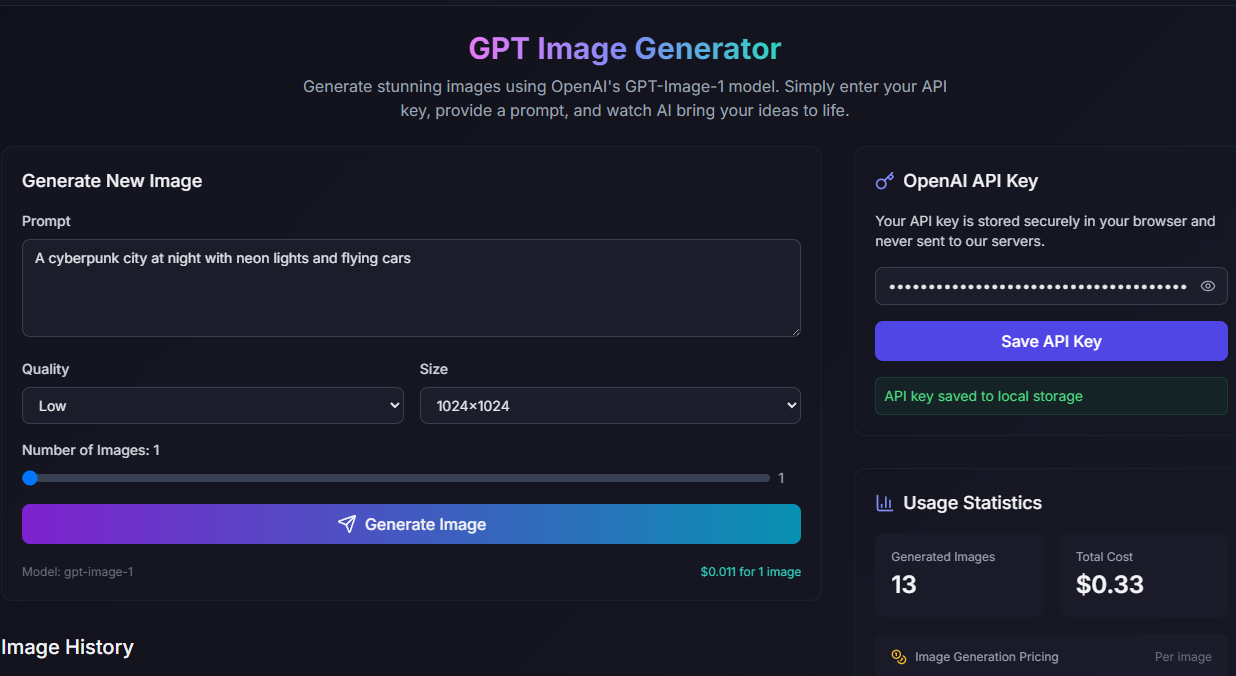
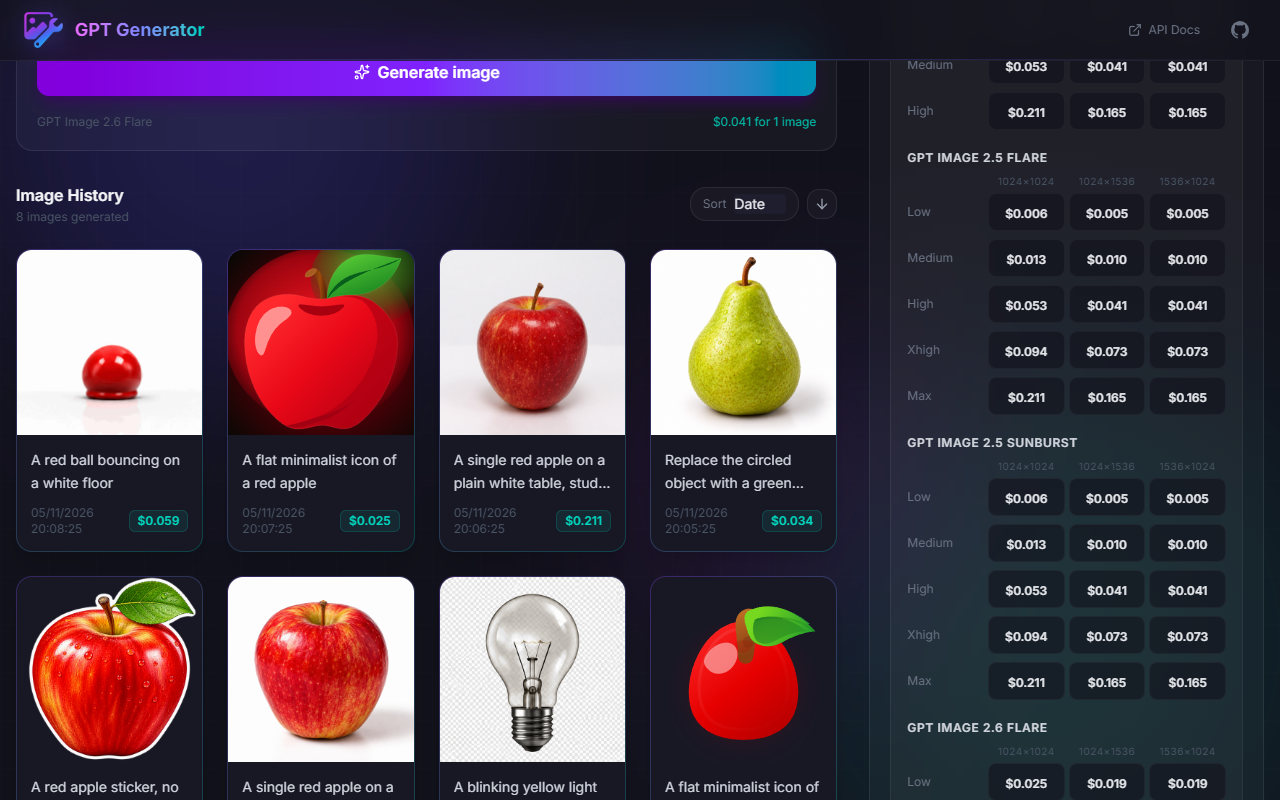
feat(app): Make the app an installable PWA with an offline app shell, improve SEO and polish the UI copy.

diff --git a/src/lib/components/ImageGenerator.svelte b/src/lib/components/ImageGenerator.svelte
@@ -1,7 +1,7 @@
 <script lang="ts">
 	import { onMount } from 'svelte';
 	import { fly, fade } from 'svelte/transition';
-	import { Upload, X, ChevronDown, ChevronRight, LoaderCircle, Sparkles, ImagePlus, ClipboardPaste, Brush } from '@lucide/svelte';
+	import { Upload, X, ChevronDown, ChevronRight, LoaderCircle, Sparkles, ImagePlus, Brush } from '@lucide/svelte';
 	import { apiKey } from '#lib/stores/apiKey.svelte.ts';
 	import { gallery } from '#lib/stores/gallery.svelte.ts';
 	import { generateImage, editImage, type ImageResult } from '#lib/services/openai.ts';
@@ -145,7 +145,7 @@
 				: opts.prompt.length > GPT_IMAGE_MODEL_PROMPT_MAX_CHARS
 					? `Prompt exceeds the API limit (${GPT_IMAGE_MODEL_PROMPT_MAX_CHARS.toLocaleString('en-US')} characters for GPT Image models). Shorten the text and try again.`
 					: opts.selectedBackground === 'transparent' && format === 'jpeg'
-						? 'Transparent background is not supported for JPEG output format. Please select PNG or WebP.'
+						? 'JPEG does not support a transparent background. Choose PNG or WebP.'
 						: format === 'gif' && !VALID.frameDurationMs(opts.frameDurationMs)
 							? `Frame duration must be a whole number between ${GIF_LIMITS.minFrameDurationMs} and ${GIF_LIMITS.maxFrameDurationMs} ms.`
 							: null
@@ -191,7 +191,7 @@
 			return;
 		}
 		if (file.size > IMAGE_UPLOAD_LIMITS.maskMaxSize) {
-			error = `Mask file "${file.name}" is too large. Maximum size is ${IMAGE_UPLOAD_LIMITS.maskMaxSize / (1024 * 1024)}MB.`;
+			error = `Mask file "${file.name}" is too large. Maximum size is ${IMAGE_UPLOAD_LIMITS.maskMaxSize / (1024 * 1024)} MB.`;
 			return;
 		}
 
@@ -269,7 +269,7 @@
 		<div class="flex items-center gap-2">
 			<Sparkles class="h-4 w-4 text-brand-400" />
 			<h2 class="text-sm font-semibold text-gray-100 tracking-wide uppercase">
-				{inputImages.length > 0 ? 'Generate with references' : 'Create Image'}
+				{inputImages.length > 0 ? 'Generate with references' : 'Create image'}
 			</h2>
 		</div>
 		{#if inputImages.length > 0}
@@ -278,14 +278,6 @@
 				class="text-xs px-2 py-0.5 rounded-full bg-brand-900/50 text-brand-300 border border-brand-700/40"
 			>
 				{inputImages.length} reference{inputImages.length > 1 ? 's' : ''} attached
-			</span>
-		{:else}
-			<span
-				in:fade={{ duration: 200 }}
-				class="text-xs text-gray-600 flex items-center gap-1"
-			>
-				<ClipboardPaste class="h-3 w-3" />
-				Ctrl+V to attach image
 			</span>
 		{/if}
 	</div>
@@ -298,7 +290,7 @@
 					bind:value={opts.prompt}
 					rows="4"
 					placeholder={inputImages.length > 0
-						? 'Describe what to generate using these references - style, subject, composition…'
+						? 'Describe what to generate from these references: style, subject, composition…'
 						: 'Describe the image you want to create…'}
 					class="input resize-none leading-relaxed pb-8"
 					disabled={isGenerating}
@@ -328,14 +320,9 @@
 			<ImageUploadZone bind:files={inputImages} disabled={isGenerating} onerror={(message) => (error = message)}
 				onsvg={(text) => (opts.prompt = opts.prompt.trim() ? `${opts.prompt}\n\n${text}` : text)}
 			/>
-			{#if inputImages.length === 0}
-				<p class="text-xs text-gray-700 mt-1.5">
-					Drop, paste (Ctrl+V) or browse - any image up to 50 MB, SVG files are added to the prompt as text
-				</p>
-			{/if}
 		</div>
 
-		<div class="grid grid-cols-3 gap-3">
+		<div class="grid grid-cols-1 sm:grid-cols-3 gap-3">
 			<div>
 				<label for="model" class="field-label block mb-1.5">Model</label>
 				<select id="model" bind:value={opts.selectedModel} class="input" disabled={isGenerating}>
@@ -398,7 +385,7 @@
 					<div class="grid grid-cols-2 gap-4">
 						<div>
 							<label for="outputFormat" class="field-label block mb-1.5">
-								Output Format
+								Output format
 							</label>
 							<select id="outputFormat" bind:value={() => format, (value) => (opts.outputFormat = value)} class="input" disabled={isGenerating}>
 								{#each Object.entries(OUTPUT_FORMAT_OPTIONS) as [key, option] (key)}
@@ -535,7 +522,7 @@
 					{#if mode === 'edit'}
 						<div>
 							<label class="field-label block mb-1.5" for="mask-upload">
-								Mask (Optional)
+								Mask (optional)
 							</label>
 							<div class="flex items-center gap-3">
 								<label class="cursor-pointer">
@@ -572,7 +559,7 @@
 
 					{#if markupAllowed}
 						<div>
-							<span class="field-label block mb-1.5">Markup (Optional)</span>
+							<span class="field-label block mb-1.5">Markup (optional)</span>
 							<button
 								type="button"
 								class="flex items-center gap-2 px-3 py-1.5 bg-gray-800 hover:bg-gray-700 disabled:opacity-40 disabled:cursor-not-allowed rounded-lg text-sm transition-colors cursor-pointer"
@@ -641,7 +628,7 @@
 			{#if price !== null}
 				<span class="text-secondary-500">${(price * effectiveCount).toFixed(3)} for {effectiveCount} {effectiveCount > 1 ? 'images' : 'image'}</span>
 			{:else}
-				<span class="text-gray-500">Price estimate unavailable, the real cost is recorded after generation</span>
+				<span class="text-gray-500">Price estimate unavailable. The real cost is recorded after generation.</span>
 			{/if}
 		</div>
 	</form>

diff --git a/src/app.html b/src/app.html
@@ -6,21 +6,49 @@
 		<link rel="icon" type="image/png" sizes="32x32" href="/favicon.png" />
 		<link rel="icon" type="image/avif" sizes="32x32" href="/favicon.avif" />
 		<link rel="apple-touch-icon" href="/apple-touch-icon.png" />
+		<link rel="manifest" href="/manifest.webmanifest" />
 		<meta name="viewport" content="width=device-width, initial-scale=1.0" />
+		<meta name="theme-color" content="#11111b" />
+		<meta name="apple-mobile-web-app-title" content="GPT Images" />
 		<title>GPT Image Generator</title>
 
-		<meta name="description" content="Generate and edit images in your browser with OpenAI's GPT Image 2, 2.5 and 2.6 models, including animated GIF and SVG output." />
+		<meta name="description" content="Generate and edit images, animated GIFs and SVGs in your browser with OpenAI's GPT Image 2, 2.5 and 2.6 models, using your own API key." />
 		<meta name="author" content="Ayfri" />
 
 		<meta property="og:title" content="GPT Image Generator" />
-		<meta property="og:description" content="Generate and edit images in your browser with OpenAI's GPT Image 2, 2.5 and 2.6 models, including animated GIF and SVG output." />
+		<meta property="og:description" content="Generate and edit images, animated GIFs and SVGs in your browser with OpenAI's GPT Image 2, 2.5 and 2.6 models, using your own API key." />
 		<meta property="og:type" content="website" />
 		<meta property="og:url" content="https://gpt-images.ayfri.com" />
 		<meta property="og:site_name" content="GPT Image Generator" />
+		<meta property="og:locale" content="en_US" />
+		<meta property="og:image" content="https://gpt-images.ayfri.com/og-image.png" />
+		<meta property="og:image:width" content="1200" />
+		<meta property="og:image:height" content="630" />
+		<meta property="og:image:type" content="image/png" />
+		<meta property="og:image:alt" content="GPT Image Generator showing a gallery of AI-generated images" />
 
-		<meta name="twitter:card" content="summary" />
+		<meta name="twitter:card" content="summary_large_image" />
+		<meta name="twitter:image" content="https://gpt-images.ayfri.com/og-image.png" />
+		<meta name="twitter:image:alt" content="GPT Image Generator showing a gallery of AI-generated images" />
 
 		<link rel="canonical" href="https://gpt-images.ayfri.com" />
+
+		<script type="application/ld+json">
+			{
+				"@context": "https://schema.org",
+				"@type": "WebApplication",
+				"name": "GPT Image Generator",
+				"url": "https://gpt-images.ayfri.com",
+				"description": "Generate and edit images, animated GIFs and SVGs in your browser with OpenAI's GPT Image 2, 2.5 and 2.6 models, using your own API key.",
+				"applicationCategory": "MultimediaApplication",
+				"operatingSystem": "Any",
+				"browserRequirements": "Requires a modern browser with JavaScript and an OpenAI API key",
+				"isAccessibleForFree": true,
+				"image": "https://gpt-images.ayfri.com/og-image.png",
+				"offers": { "@type": "Offer", "price": "0", "priceCurrency": "USD" },
+				"author": { "@type": "Person", "name": "Ayfri", "url": "https://github.com/Ayfri" }
+			}
+		</script>
 
 		<script async src="https://www.googletagmanager.com/gtag/js?id=G-YKYKTBFCYW"></script>
 		<script>

diff --git a/src/service-worker/index.ts b/src/service-worker/index.ts
@@ -1,0 +1,32 @@
+import { version } from '$app/env';
+import { assets, immutable, prerendered } from '$app/manifest';
+import { self } from '$app/service-worker';
+
+const CACHE = `app-shell-${version}`;
+
+/** The manifest paths have no leading slash and the prerendered page is an empty path. The social preview and install dialog images stay out of the shell: only crawlers and installers fetch them. */
+const shell = new Set(
+	[...immutable, ...assets, ...prerendered].map(({ path }) => `/${path}`).filter((path) => !/^\/(og-image|screenshot)/.test(path))
+);
+
+self.addEventListener('install', (event) => {
+	event.waitUntil(caches.open(CACHE).then((cache) => cache.addAll(shell)));
+});
+
+self.addEventListener('activate', (event) => {
+	event.waitUntil(caches.keys().then((keys) => Promise.all(keys.filter((key) => key !== CACHE).map((key) => caches.delete(key)))));
+});
+
+self.addEventListener('fetch', (event) => {
+	const { request } = event;
+	const { origin, pathname } = new URL(request.url);
+
+	/** Cross-origin requests (the OpenAI API included) and non-GET requests go straight to the network. */
+	if (request.method !== 'GET' || origin !== self.location.origin) return;
+
+	if (request.mode === 'navigate') {
+		event.respondWith(fetch(request).catch(async () => (await caches.match('/')) ?? Response.error()));
+	} else if (shell.has(pathname)) {
+		event.respondWith(caches.match(request).then((cached) => cached ?? fetch(request)));
+	}
+});

diff --git a/src/lib/components/ImageLightbox.svelte b/src/lib/components/ImageLightbox.svelte
@@ -77,13 +77,13 @@
 			<span>Quality: {image.quality ?? 'N/A'}</span>
 			<span>Size: {image.size ?? 'N/A'}</span>
 			{#if image.input_fidelity && image.input_fidelity !== 'low'}
-				<span>Input Fidelity: {image.input_fidelity}</span>
+				<span>Input fidelity: {image.input_fidelity}</span>
 			{/if}
 			{#if image.output_compression && image.output_compression !== 100}
-				<span>Output Compression: {image.output_compression}</span>
+				<span>Output compression: {image.output_compression}%</span>
 			{/if}
 			{#if image.output_format && image.output_format !== 'png'}
-				<span>Output Format: {image.output_format}</span>
+				<span>Output format: {image.output_format}</span>
 			{/if}
 			{#if image.background && image.background !== 'auto'}
 				<span>Background: {image.background}</span>
@@ -95,7 +95,7 @@
 				<span>Complexity: {image.complexity}</span>
 			{/if}
 			{#if image.frame_count && image.frame_duration_ms}
-				<span>Frames: {image.frame_count} x {image.frame_duration_ms} ms</span>
+				<span>Frames: {image.frame_count} × {image.frame_duration_ms} ms</span>
 			{/if}
 			{#if image.svg_usage}
 				<span>SVG author: {image.svg_usage.model}, {image.svg_usage.input_tokens} in / {image.svg_usage.output_tokens} out tokens (not in cost)</span>

diff --git a/src/lib/types/image.ts b/src/lib/types/image.ts
@@ -43,7 +43,7 @@ export const QUALITY_OPTIONS = {
 	low: { label: 'Low' },
 	medium: { label: 'Medium' },
 	high: { label: 'High' },
-	xhigh: { label: 'Extra High' },
+	xhigh: { label: 'Extra high' },
 	max: { label: 'Max' },
 	auto: { label: 'Auto' }
 } as const satisfies Record<ImageQuality, { label: string }>;
@@ -100,9 +100,9 @@ export const SVG_EFFORT_OPTIONS = {
 } as const satisfies Record<SvgEffort, { label: string }>;
 
 export const BACKGROUND_OPTIONS = {
-	auto: { label: 'Auto', description: 'Model automatically determines the best background' },
-	opaque: { label: 'Opaque', description: 'Ensures a solid background' },
-	transparent: { label: 'Transparent', description: 'Generates image with transparent background (PNG/WebP only)' }
+	auto: { label: 'Auto', description: 'The model picks the best background' },
+	opaque: { label: 'Opaque', description: 'Solid background' },
+	transparent: { label: 'Transparent', description: 'Transparent background (PNG and WebP only)' }
 } as const satisfies Record<ImageBackground, { description: string; label: string }>;
 
 export const MODERATION_OPTIONS = {

diff --git a/src/lib/components/ImageUploadZone.svelte b/src/lib/components/ImageUploadZone.svelte
@@ -47,7 +47,7 @@
 
 				/** Checked before decoding: a huge file is rejected without paying for the bitmap and the PNG re-encode. */
 				if (file.size > IMAGE_UPLOAD_LIMITS.maxFileSize) {
-					onerror(`File "${file.name}" is too large. Maximum size is ${IMAGE_UPLOAD_LIMITS.maxFileSize / (1024 * 1024)}MB.`);
+					onerror(`File "${file.name}" is too large. Maximum size is ${IMAGE_UPLOAD_LIMITS.maxFileSize / (1024 * 1024)} MB.`);
 					return null;
 				}
 
@@ -192,7 +192,8 @@
 					<button type="button" onclick={submitUrl} class="text-xs text-primary-500 hover:text-primary-400 shrink-0" disabled={blocked}>Load</button>
 				{/if}
 			</div>
-			<p class="text-xs text-gray-700 mt-1.5">Drop here or Ctrl+V anywhere on the page</p>
+			<p class="text-xs text-gray-700 mt-1.5">Drop, paste or browse images. SVG files are added to the prompt as text.</p>
+			<p class="text-xs text-gray-700">Up to {IMAGE_UPLOAD_LIMITS.maxImages} images, {IMAGE_UPLOAD_LIMITS.maxFileSize / (1024 * 1024)} MB each</p>
 		</div>
 	{/if}
 </div>

diff --git a/src/lib/components/Footer.svelte b/src/lib/components/Footer.svelte
@@ -14,12 +14,12 @@
 			<a href="https://github.com/Ayfri/GPT-Images" target="_blank" rel="noopener" class="text-gray-500 hover:text-gray-300 transition-colors p-1" title="GitHub">
 				<GitHubIcon size={16} />
 			</a>
-			<a href="https://platform.openai.com/docs/guides/image-generation" target="_blank" rel="noopener" class="text-gray-500 hover:text-gray-300 transition-colors p-1" title="API Documentation">
+			<a href="https://platform.openai.com/docs/guides/image-generation" target="_blank" rel="noopener" class="text-gray-500 hover:text-gray-300 transition-colors p-1" title="API documentation">
 				<ExternalLink class="w-4 h-4" />
 			</a>
 		</div>
 		<p class="text-xs text-gray-600 text-center">
-			GPT Generator &nbsp;·&nbsp; {new Date().getFullYear()} &nbsp;·&nbsp;
+			GPT Image Generator &nbsp;·&nbsp; {new Date().getFullYear()} &nbsp;·&nbsp;
 			<span class="text-primary-400 font-medium">SvelteKit</span> + <span class="text-secondary-400 font-medium">Tailwind</span>
 		</p>
 	</div>

diff --git a/src/routes/+page.svelte b/src/routes/+page.svelte
@@ -8,11 +8,11 @@
 </script>
 
 <div class="mb-10 text-center animate-slide-up">
-	<h1 class="text-4xl sm:text-5xl font-bold mb-4 tracking-tight">
-		<span class="gradient-text">Image Generator</span>
+	<h1 class="text-3xl sm:text-5xl font-bold mb-4 tracking-tight">
+		<span class="gradient-text">GPT Image Generator</span>
 	</h1>
 	<p class="text-gray-400 max-w-xl mx-auto leading-relaxed">
-		Generate images from text - or drag, paste, or click to attach reference images and let AI use them as a visual guide.
+		Generate or edit images, GIFs and SVGs with OpenAI's GPT Image models. Runs in your browser with your own API key, and your history stays on your device.
 	</p>
 </div>
 

diff --git a/src/lib/components/ImageGrid.svelte b/src/lib/components/ImageGrid.svelte
@@ -56,7 +56,7 @@
 <div>
 	<div class="mb-6 flex items-center justify-between">
 		<div>
-			<h2 class="text-base font-semibold text-gray-100">Image History</h2>
+			<h2 class="text-base font-semibold text-gray-100">Image history</h2>
 			<p class="mt-0.5 text-xs text-gray-600">
 				{gallery.images.length} image{gallery.images.length !== 1 ? 's' : ''} generated
 			</p>
@@ -92,7 +92,7 @@
 
 	{#if !gallery.loaded}
 		<div class="flex h-40 items-center justify-center">
-			<div class="animate-pulse-slow text-gray-500">Loading images...</div>
+			<div class="animate-pulse-slow text-gray-500">Loading images…</div>
 		</div>
 	{:else if gallery.images.length === 0}
 		<div

diff --git a/src/lib/components/Header.svelte b/src/lib/components/Header.svelte
@@ -19,7 +19,7 @@
 				</div>
 			</div>
 			<div>
-				<span class="text-base sm:text-lg font-bold gradient-text">GPT Generator</span>
+				<span class="text-base sm:text-lg font-bold gradient-text whitespace-nowrap">GPT Image Generator</span>
 			</div>
 		</a>
 		<div class="flex items-center gap-1 sm:gap-2 md:gap-3 ml-auto">
@@ -30,7 +30,7 @@
 				class='hidden sm:flex items-center gap-1 sm:gap-1.5 text-xs text-gray-500 hover:text-gray-300 transition-colors px-2 sm:px-3 py-1.5 rounded-lg hover:bg-white/5'
 			>
 				<ExternalLink class="w-3.5 h-3.5" />
-				API Docs
+				API docs
 			</a>
 			<a
 				href='https://github.com/Ayfri/GPT-Images'

diff --git a/src/lib/components/ApiKeyForm.svelte b/src/lib/components/ApiKeyForm.svelte
@@ -13,7 +13,7 @@
 			<Key class="h-4 w-4 text-primary-400" />
 		</div>
 		<div>
-			<h2 class="text-sm font-semibold text-gray-100">OpenAI API Key</h2>
+			<h2 class="text-sm font-semibold text-gray-100">OpenAI API key</h2>
 			<p class="text-xs text-gray-600">Stored locally in your browser</p>
 		</div>
 		{#if apiKey.value}
@@ -56,7 +56,7 @@
 		</div>
 
 		<button class="btn btn-primary w-full text-sm py-2.5 disabled:opacity-40 disabled:cursor-not-allowed" disabled={keyInput === apiKey.value}>
-			Save API Key
+			Save API key
 		</button>
 	</form>
 </div>

diff --git a/src/lib/services/openai.ts b/src/lib/services/openai.ts
@@ -36,7 +36,7 @@ async function request(apiKey: string, endpoint: 'generations' | 'edits', body: 
 	if (!res.ok) throw new Error(json.error?.message || `HTTP ${res.status}`);
 
 	const images = (json.data ?? []).map((item) => item.b64_json).filter((b64) => b64 !== undefined);
-	if (images.length === 0) throw new Error('API did not return image data');
+	if (images.length === 0) throw new Error('The API returned no image data');
 	return { images, size: json.size, svgUsage: json.svg_usage, usage: json.usage };
 }
 
